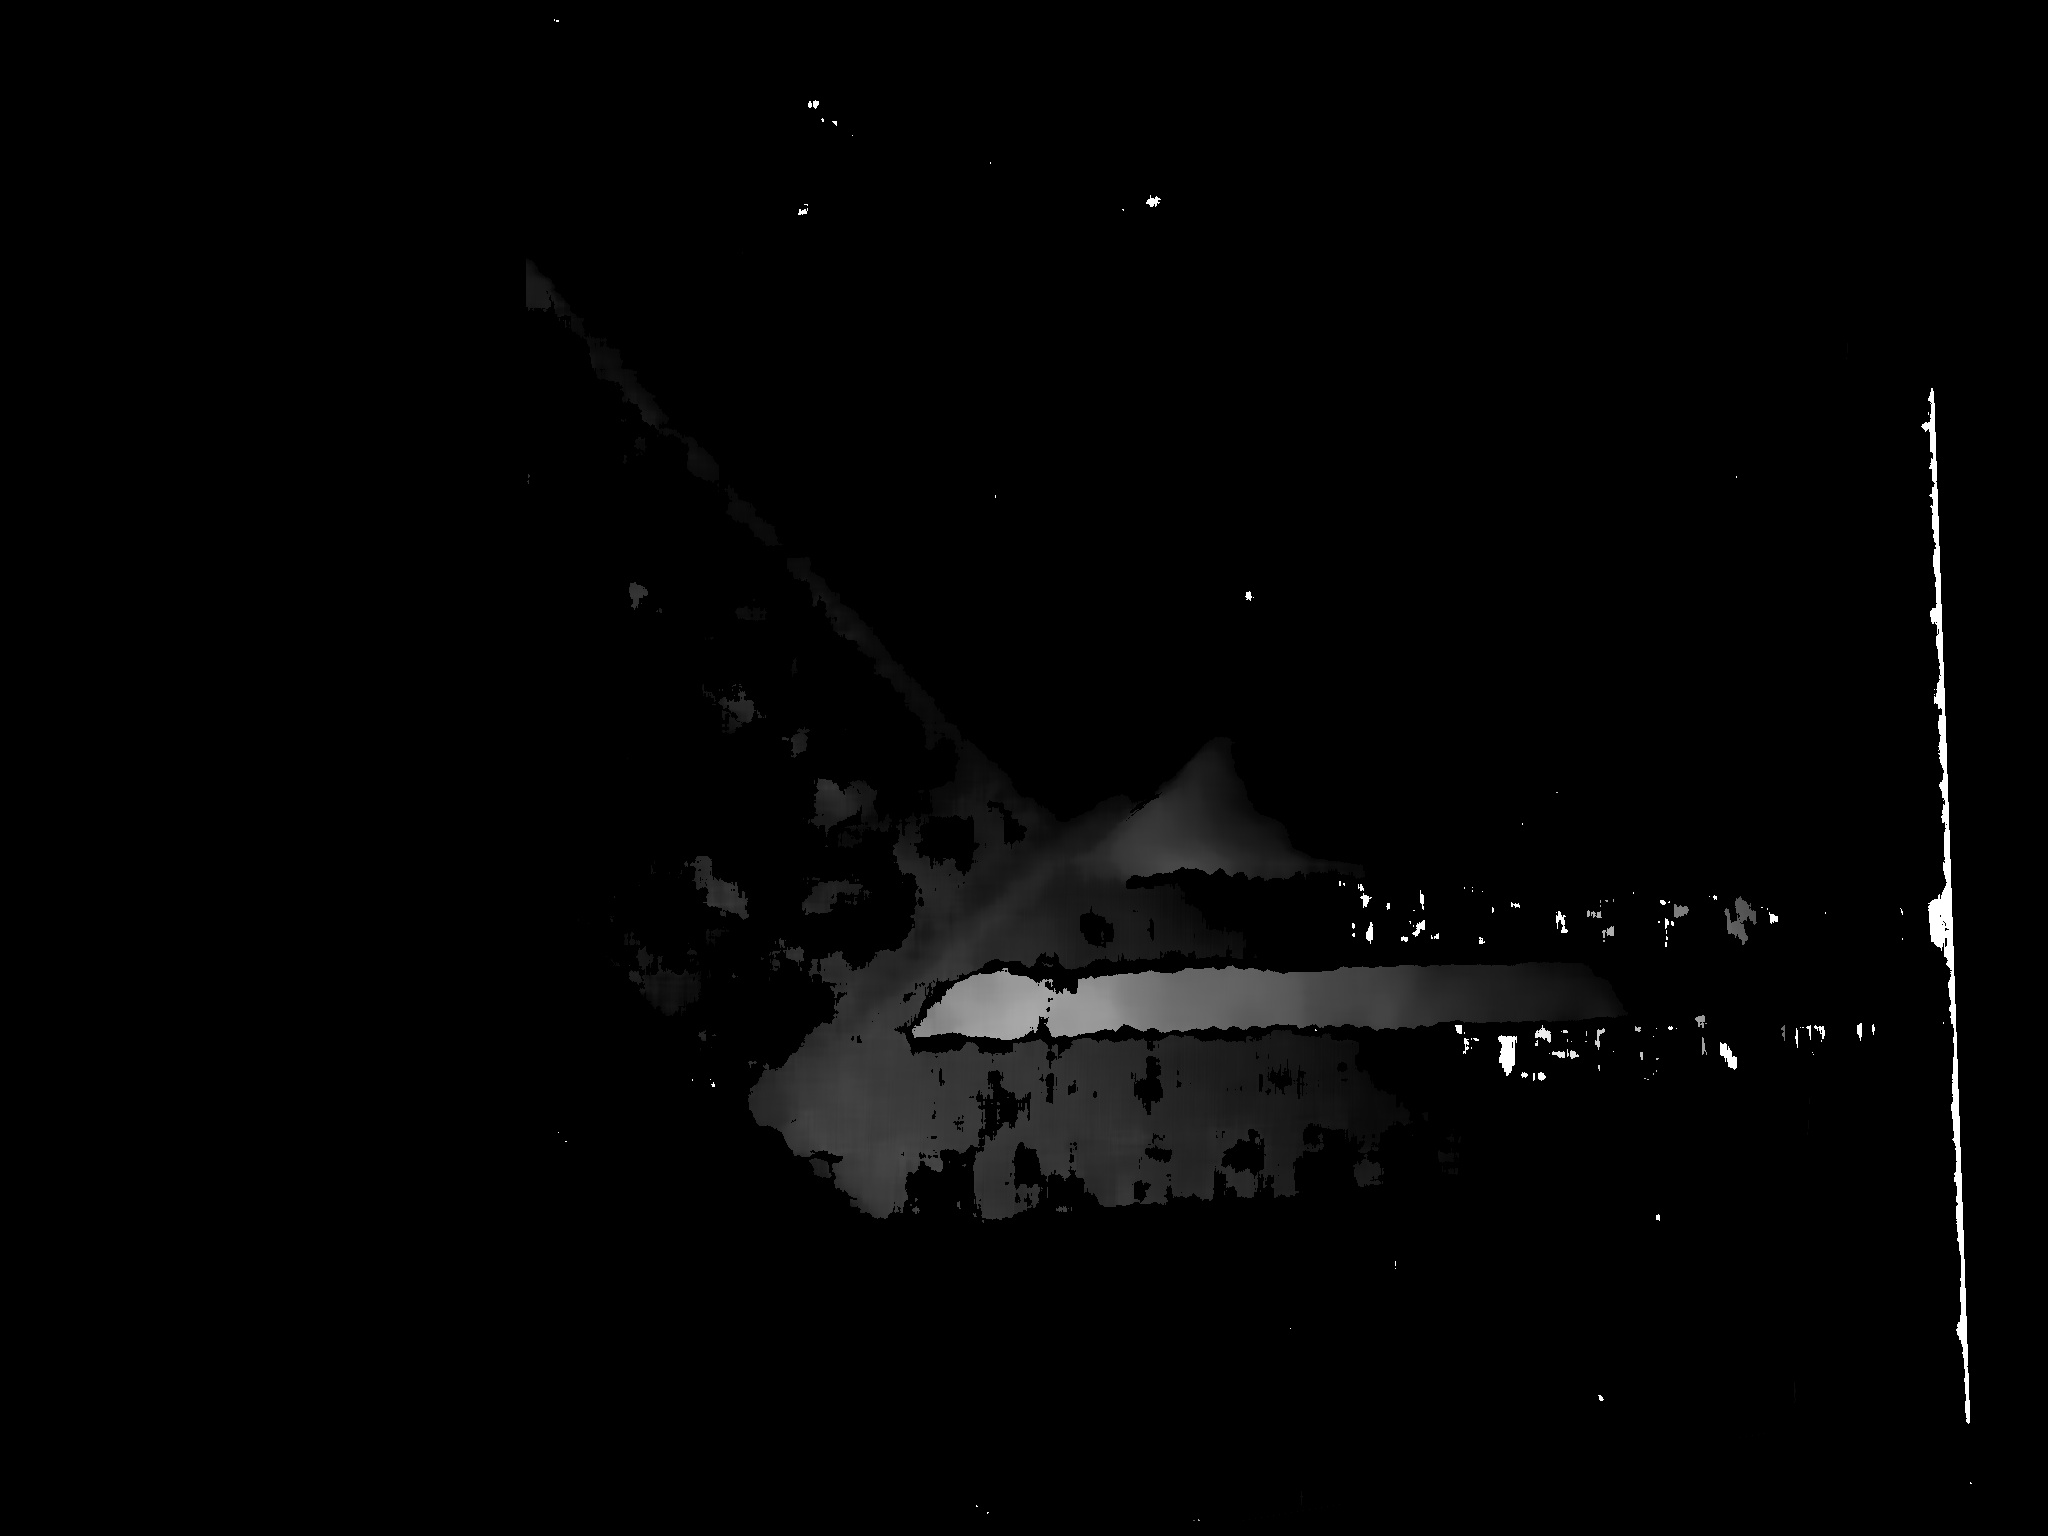
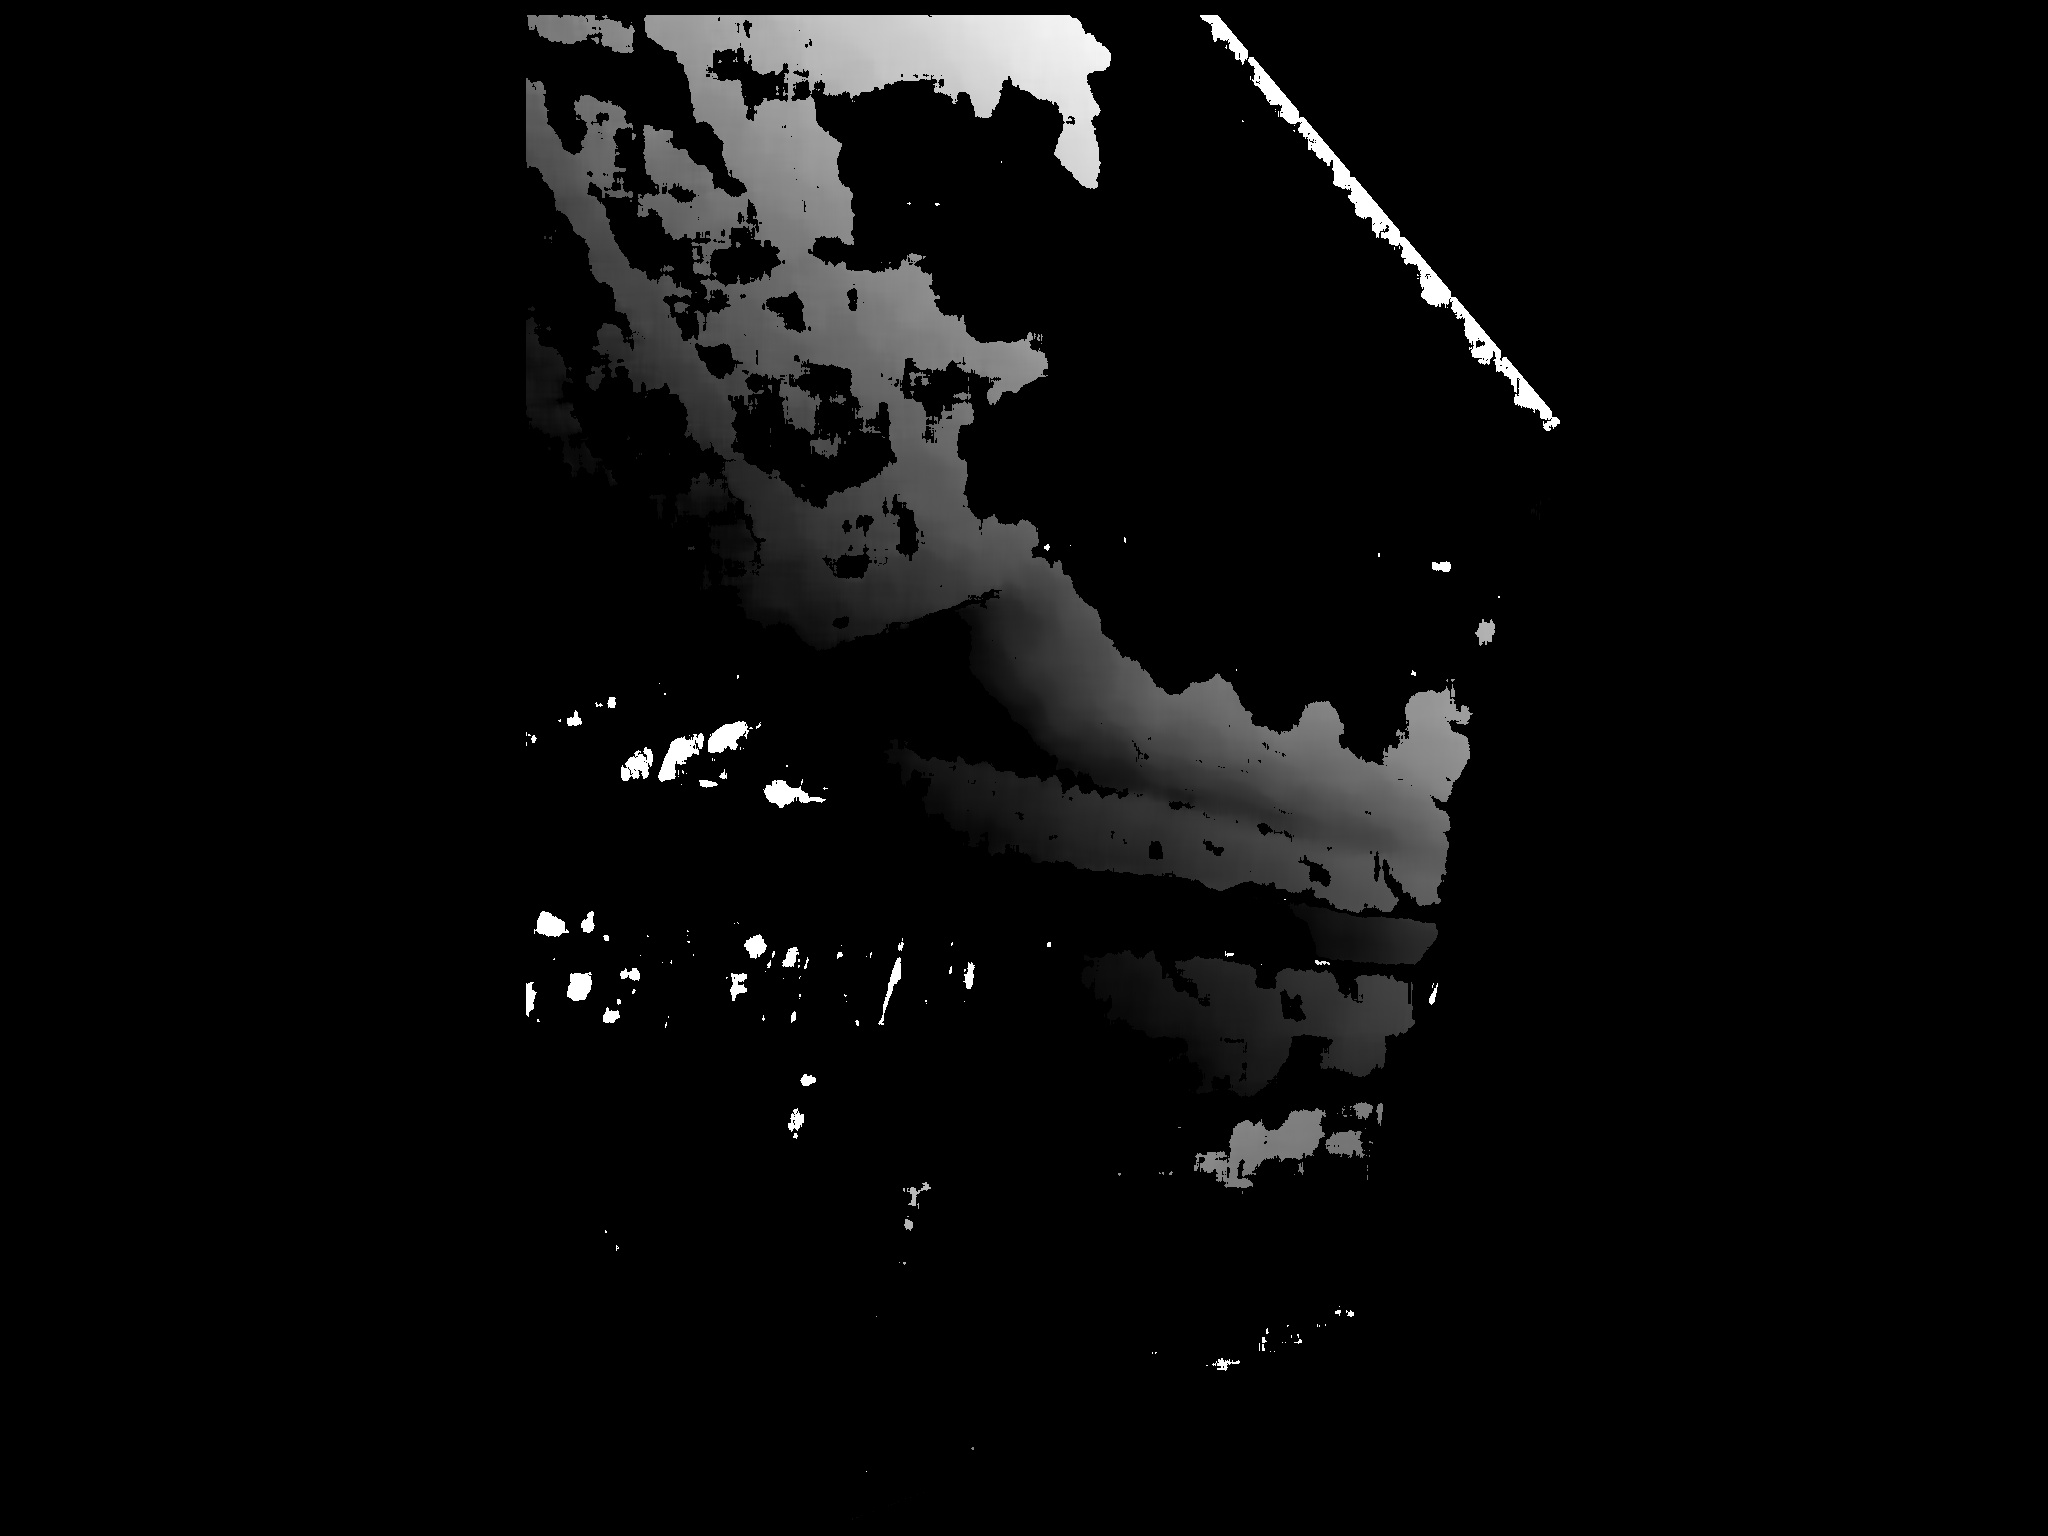
se implemento el criterio de lowe correctamente, y se hicieron las modificaciones pertinentes para ello

diff --git a/FotogrametriaAerea/DisparityMap/DisparityMap.cpp b/FotogrametriaAerea/DisparityMap/DisparityMap.cpp
@@ -3,7 +3,7 @@
 
 #include "stdafx.h"
 
-void matchTwoViews(Mat img1, Mat img2, String camFolder);
+void matchTwoViews(vector <Mat> images, vector <Mat> grayImages, String camFolder);
 
 int main(int argc, const char** argv)
 {
@@ -15,7 +15,7 @@ int main(int argc, const char** argv)
 
 	cout << "Detecting and computing keypoints using BRISK.." << endl;
 
-	matchTwoViews(img[1], img[0], camFolder);
+	matchTwoViews(img, gray, camFolder);
 
 
 	system("pause");
@@ -24,66 +24,47 @@ int main(int argc, const char** argv)
 }
 
 
-void matchTwoViews(Mat img1, Mat img2, String camFolder)
+void matchTwoViews(vector <Mat> images, vector <Mat> grayImages, String camFolder)
 {
+	Mat img1 = images[0];
+	Mat img2 = images[1];
 	Size imgSize = Size(img1.cols, img1.rows);
-	vector < Mat> descriptor(2);
+	vector < Mat> descriptor;
 	vector < vector< KeyPoint > > kp(2, vector< KeyPoint >(POINTSQUANTITY));
-	vector < vector< DMatch > >  matches(1, vector< DMatch >(POINTSQUANTITY));
+	vector < vector< DMatch > >  matches;
 
-	Ptr< BRISK > brisk = BRISK::create(40, 3, 1.0F);
-	brisk->detectAndCompute(img2, noArray(), kp[0], descriptor[0], false);
-	brisk->detectAndCompute(img1, noArray(), kp[1], descriptor[1], false);
+	Ptr< BRISK > brisk = BRISK::create(40, 0, 1.0F);
+	brisk->detect(grayImages, kp);
+	brisk->compute(grayImages, kp, descriptor);
 
 	cout << "Creating Matcher BruteForce-Hamming.." << endl;
-	Ptr< DescriptorMatcher > matcher = DescriptorMatcher::create("BruteForce-Hamming");
+	BFMatcher matcher(NORM_HAMMING);
 	cout << "Matching and sorting matches.." << endl;
-
-	matcher->match(descriptor[1], descriptor[0], matches[0], noArray());
-	sort(matches[0].begin(), matches[0].end(), comp);
-
+	
+	matcher.knnMatch(descriptor[0], descriptor[1], matches, 2);
 
 	cout << "Taking good matches.." << endl;
 	vector< DMatch > good1;
 	vector< Point2f > pts1, pts2;
 	vector< Vec3b > color1, color2;
-	double distAnt = INF;
-	double Tprom = 0.0000;
-	double delta1 = 3;
-	double Nprom = 0.0;
-	double delta2 = 15;
-	int i = 0;
-	for (vector< DMatch >::iterator it = matches[0].begin(); it != matches[0].end(); ++it)
+	int i;
+	for (i = 0; i < matches.size(); ++i)
 	{
-		double Dx = kp[0][it->trainIdx].pt.x - kp[1][it->queryIdx].pt.x;
-		double Dy = kp[0][it->trainIdx].pt.y - kp[1][it->queryIdx].pt.y;
-		double t = atan2l(Dy, Dx);
-		double N2 = sqrt(Dx*Dx + Dy*Dy);
-
-		double D1 = Tprom - t;
-		double D2 = Nprom - N2;
-
-		Tprom = (Tprom*(i)+t) / (i + 1);
-		Nprom = (Nprom*(i)+N2) / (i + 1);
-		//El promedio debe ser solo de los puntos correctos
-
-		if (D1< 0) D1 = -D1;
-		if (D2< 0) D2 = -D2;
-		if (D1<(delta1* PI / 180) && D2<(delta2*Nprom / 100))
+		if (matches[i][0].distance < 0.6*matches[i][1].distance)
 		{
-			good1.push_back(*it);
-			pts2.push_back(kp[0][it->trainIdx].pt);
-			color2.push_back(img2.at< Vec3b >(kp[0][it->trainIdx].pt));
-			pts1.push_back(kp[1][it->queryIdx].pt); //bf.match(query, train)
-			color1.push_back(img1.at< Vec3b >(kp[1][it->queryIdx].pt));
+			good1.push_back(matches[i][0]);
+			pts2.push_back(kp.at(1)[matches[i][0].trainIdx].pt);
+			color2.push_back(img2.at< Vec3b >(kp.at(1)[matches[i][0].trainIdx].pt));
+			pts1.push_back(kp.at(0)[matches[i][0].queryIdx].pt); //bf.match(query, train)
+			color1.push_back(img1.at< Vec3b >(kp.at(0)[matches[i][0].queryIdx].pt));
 		}
-		distAnt = it->distance;
 	}
-	graficarMatches(img1, img2, pts1, pts2);
+	cout << endl << good1.size() << endl;
+	graficarMatches(img1, img2, pts1, pts2, ALL_IN_ONE);
 	Mat F;
-	F = findFundamentalMat(pts1, pts2, CV_FM_RANSAC, 3.0, 0.99, noArray());
+	vector <uchar> inliers;
+	F = findFundamentalMat(pts1, pts2, CV_FM_RANSAC, 3.0, 0.99, inliers);
 	cout << F << endl;
-	//F = mi8Points(pts1, pts2);
 	Mat im1ep, im2ep;
 
 	vector< Vec3f > lines1, lines2;

diff --git a/FotogrametriaAerea/DisparityMap/Functions.cpp b/FotogrametriaAerea/DisparityMap/Functions.cpp
@@ -51,30 +51,44 @@ void graficarEpipolares(Mat img1, Mat img2, vector<Point2f> pts1, vector<Point2f
 			color2,
 			THICKNESS);
 		circle(outImg(rect2), pts2[i], POINT_SIZE, color2, -1, CV_AA);
-		namedWindow("IMG", CV_WINDOW_NORMAL);
-		imshow("IMG", outImg);
+		
 		*imout1 = outImg(rect1).clone();
 		*imout2 = outImg(rect2).clone();
-		waitKey(0);
 	}
+	namedWindow("IMG", CV_WINDOW_NORMAL);
+	imshow("IMG", outImg);
+	waitKey(0);
 }
 
-
-void graficarMatches(Mat img1, Mat img2, vector<Point2f> pts1, vector<Point2f> pts2)
+void graficarMatches(Mat img1, Mat img2, vector<Point2f> pts1, vector<Point2f> pts2, int flag)
 {
 	cv::Mat outImg(img1.rows, img1.cols * 2, CV_8UC3);
 	Rect rect1(0, 0, img1.cols, img1.rows);
 	Rect rect2(img1.cols, 0, img1.cols, img1.rows);
+	img1.copyTo(outImg(rect1));
+	img2.copyTo(outImg(rect2));
 	for (size_t i = 0; i < pts1.size(); i++)
 	{
-		img1.copyTo(outImg(rect1));
-		img2.copyTo(outImg(rect2));
+		if (flag == ONE_BY_ONE)
+		{
+			img1.copyTo(outImg(rect1));
+			img2.copyTo(outImg(rect2));
+		}
 
 		Scalar color(rand() % 256, rand() % 256, rand() % 256);
 		circle(outImg(rect1), pts1[i], POINT_SIZE, color, -1, CV_AA);
 		circle(outImg(rect2), pts2[i], POINT_SIZE, color, -1, CV_AA);
 		Point2f p2 = Point2f(pts2[i].x + img1.cols, pts2[i].y);
 		line(outImg, pts1[i], p2, color, 5);
+		if (flag == ONE_BY_ONE)
+		{
+			namedWindow("IMG", CV_WINDOW_NORMAL);
+			imshow("IMG", outImg);
+			waitKey(0);
+		}
+	}
+	if (flag == ALL_IN_ONE)
+	{
 		namedWindow("IMG", CV_WINDOW_NORMAL);
 		imshow("IMG", outImg);
 		waitKey(0);

diff --git a/FotogrametriaAerea/DisparityMap/stdafx.h b/FotogrametriaAerea/DisparityMap/stdafx.h
@@ -40,11 +40,15 @@ using namespace cv;
 #define MINMATCHES 7        // minimo numero de matches para hallar F
 #define PI 3.1415926535897932384626433832795
 
+//enums
+enum Graficar {ALL_IN_ONE, ONE_BY_ONE};
 
-//declaraciones de funciones
+//declaraciones 1de funciones
 vector <cv::Mat> readImages(cv::String folder, int flag);
 
 
 bool comp(DMatch& A, DMatch& B);
-void graficarMatches(Mat img1, Mat img2, vector<Point2f> pts1, vector<Point2f> pts2);
+
+void graficarMatches(Mat img1, Mat img2, vector<Point2f> pts1, vector<Point2f> pts2, int flag = ALL_IN_ONE);
+
 void graficarEpipolares(Mat img1, Mat img2, vector<Point2f> pts1, vector<Point2f> pts2, vector<Vec3f> lines1, vector<Vec3f> lines2, Mat* imout1, Mat* imout2);
